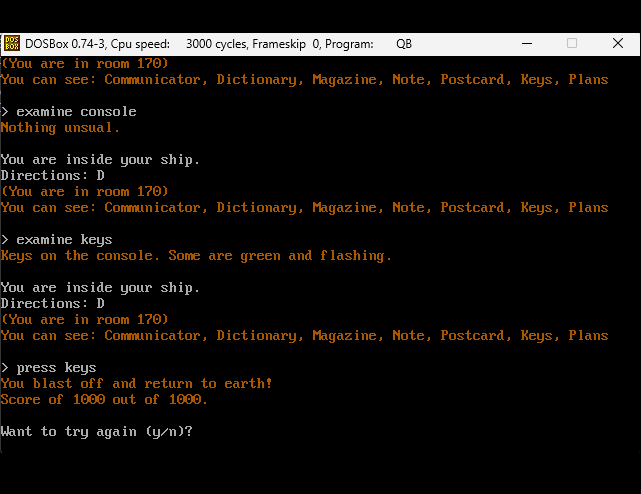
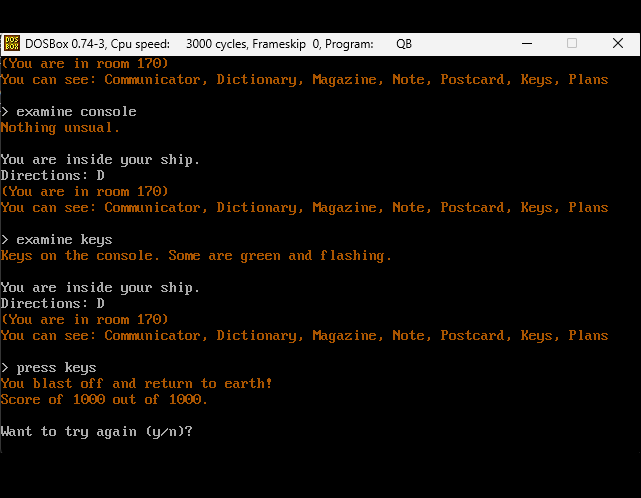
Inhome Software Additions
For My Canadian programs compo

diff --git a/Type-in-Mania-Canadian-Programs.html b/Type-in-Mania-Canadian-Programs.html
@@ -53,6 +53,7 @@
 '<center>CELESTAL</center><a href="https://github.com/jggames/QuickBASIC/tree/main/Celestal"><img src="img/celestal.png" width="288" alt="screenshot"></a><br />Title: Celestial Mechanic<br />Author: Steve Rimmer<br />Date: October 1984<br />Source: <i>Computing Now! Magazine</i><br />Genre: Educational<br />Platform: IBM<br />BASIC Version: GWBasic',
 '<center>CHOPPER</center><a href="https://archive.org/download/canadian-early-basic-programs/Canadian%20Early%20BASIC%20Programs.zip"><img src="img/chopper_screenshot.png" width="288" alt="screenshot"></a><br />Title: Chopper Rescue<br />Author: Rob Shaw<br />Date: 1982<br />Source: Prism Software, Kincardine ON<br />Genre: Arcade/Action<br />Platform: CoCo<br />BASIC Version: Extended Color BASIC',
 '<center>CROSWORD</center><a href="https://github.com/jggames/trs80mc10/tree/master/quicktype/Artificial%20Intelligence/CrosWord"><img alt="screenshot" src="img/crosword.png"></a><br />Title: Crossword Puzzle<br />Author: Ontario Ministry of Ed.<br />Date: 1983<br />Source: Cue Inc.<br />Genre: Educational/Utility<br />Platform: PET, MC-10<br />BASIC Version: Microsoft BASIC',
+'<center>CRYPTS</center><a href="https://archive.org/download/canadian-early-basic-programs/Canadian%20Early%20BASIC%20Programs.zip"><img src="img/crypts.png" width="288" alt="screenshot"></a><br />Title: Crypts of Terror<br />Author: Daniel J. Dorey<br />Date: 1981<br />Source: Inhome Software<br />Genre: CRPG<br />Platform: Atari<br />BASIC Version: Atari BASIC',
 '<center>DATABASE</center><a href="https://github.com/jggames/trs80mc10/tree/master/quicktype/Productivity%20%26%20Education/Database"><img alt="screenshot" src="img/database.png"></a><br />Title: Database<br />Author: P.J. Lear, Dean Mackie, G. Richards<br />Date: 1986<br />Source: <i>Programmer&apos;s Handbook</i>, Hayes Pub.<br />Genre: Productivity<br />Platform: CoCo, MC-10<br />BASIC Version: Microsoft Color BASIC',
 '<center>DEEDYORK</center><a href="https://github.com/jggames/trs80mc10/tree/master/quicktype/Text%20Adventures/DeedYork"><img alt="screenshot" src="img/deedyork.png"></a><br />Title: The Deed of the York<br />Author: Chris Harland<br />Date: 1982<br />Source: <i>Rainbow Book of Adventures</i>, Falsoft<br />Genre: Text Adventure<br />Platform: CoCo, MC-10<br />BASIC Version: Microsoft Color BASIC',
 '<center>DETECT</center><a href="https://github.com/jggames/trs80mc10/tree/master/quicktype/Puzzle/Detect"><img alt="screenshot" src="img/detect.png"></a></a><br />Title: Detective<br />Author: Drew Nisbet<br />Date: 1981<br />Source: <i>Sync Magazine</i>, July/Aug<br />Genre: Puzzle<br />Platform: ZX-81, MC-10<br />BASIC Version: Sinclair BASIC',
@@ -86,6 +87,7 @@
 '<center>OTHO36</center><a href="https://archive.org/download/canadian-early-basic-programs/Canadian%20Early%20BASIC%20Programs.zip"><img alt="screenshot" src="img/otho36.png"></a><br />Title: Othello 3.6<br />Author: Alain Dussault<br />Date: May 1984<br />Source: <i>Hot CoCo Magazine</i><br />Genre: Board Game<br />Platform: CoCo, MC-10<br />BASIC Version: Microsoft Color BASIC',
 '<center>PENTOMIN</center><a href="https://github.com/jggames/trs80mc10/tree/master/quicktype/Artificial%20Intelligence/Pentomin"><img alt="screenshot" src="img/pentomin.png"></a></a><br />Title: Pentominos<br />Author: Jim Butterfield<br />Date: May 1984<br />Source: <i>Computer! Magazine</i> Issue 48<br />Genre: Educational/AI/Puzzle<br />Platform: C64, MC-10<br />BASIC Version: Microsoft BASIC',
 '<center>PHUZZY</center><a href="https://archive.org/download/canadian-early-basic-programs/Canadian%20Early%20BASIC%20Programs.zip"><img src="img/phuzzy.png" width="288" alt="screenshot"></a></a><br />Title: Phuzzy & Whuzzy Go to the Moon<br />Author: Ken Morley<br />Date: ????<br />Source: Unknown<br />Genre: Demo<br />Platform: PET<br />BASIC Version: Commodore BASIC',
+'<center>PIT_FALL</center><a href="https://archive.org/download/canadian-early-basic-programs/Canadian%20Early%20BASIC%20Programs.zip"><img src="img/pit_fall.png" width="288" alt="screenshot"></a></a><br />Title: Pit-Fall (Forerunner to "Boulder Dash")<br />Author: Chris Gray<br />Date: 1982<br />Source: Inhome Software<br />Genre: Game<br />Platform: Atari<br />BASIC Version: Atari BASIC',
 '<center>POKER</center><a href="https://github.com/jggames/trs80mc10/tree/master/quicktype/Artificial%20Intelligence/Poker"><img alt="screenshot" src="img/poker.png"></a><br />Title: Poker!<br />Author: Steve Rimmer<br />Date: May 1984<br />Source: <i>Computing Now! Magazine</i><br />Genre: Card Game/Gambling Simulation<br />Platform: IBM, MC-10<br />BASIC Version: Microsoft BASIC',
 '<center>PRINTUSI</center><a href="https://github.com/jggames/trs80mc10/tree/master/quicktype/Productivity%20%26%20Education"><img alt="screenshot" src="img/printusi.png"></a><br />Title: Simulated PRINT USING<br />Author: Jim Butterfield<br />Date: February 1981<br />Source: <i>Computer! Magazine</i> Issue 9<br />Genre: Utility<br />Platform: C64, MC-10<br />BASIC Version: Microsoft BASIC',
 '<center>RACING</center><a href="https://archive.org/download/canadian-early-basic-programs/Canadian%20Early%20BASIC%20Programs.zip"><img src="img/racing_screenshot.png" width="288" alt="screenshot"></a><br />Title: Horse Racing<br />Author: Tim Ruscheinsky<br />Date: Sept 1984<br />Source: ROM Magazine Vol 1. Iss. 7<br />Genre: Gambling/Simulation<br />Platform: Atari<br />BASIC Version: Atari BASIC',
